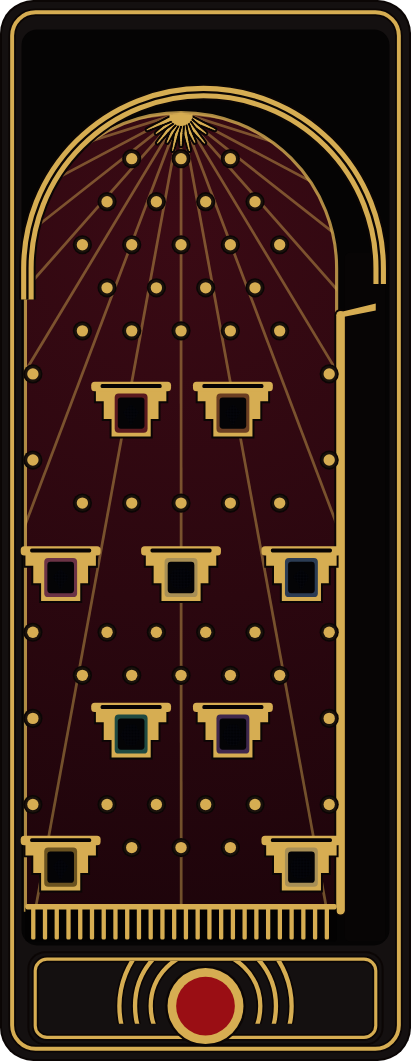
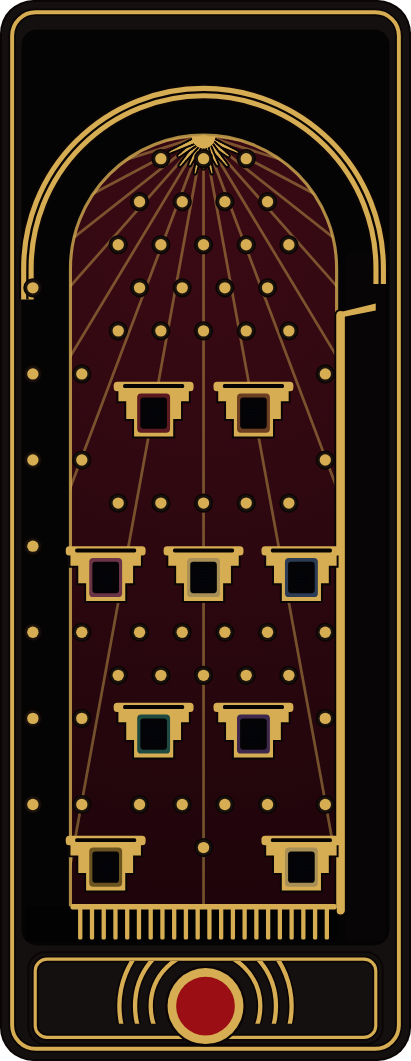
Алчность v2: пачинко — купол поля концентричен дуге, поле, лунки и гвозди по её оси
Claude-Session: https://claude.ai/code/session_014b7WGtUGzHT9duRP7NWniS

diff --git a/src/minigames/greed/greed-junk-pachinko.js b/src/minigames/greed/greed-junk-pachinko.js
@@ -166,38 +166,55 @@ Object.assign(GreedJunk, {
         return pts;
     },
 
-    // Гвозди версии 2 (аппарат-люкс, greed-lux*.js): та же шахматка с тем
-    // же шагом и теми же просветами, но ровная и зеркальная относительно
-    // середины поля (между левой стенкой и перегородкой — там же середина
-    // лунок). Игрок (18.11): «внутренности съехали, не отцентровано» — у
-    // гаражных гвоздей середина ~250,4, у лунок 253,75, у арки 259,5, плюс
-    // разброс «на глаз»: в ар-деко это читается как брак. Под куполом поля
-    // (machine.py: купол — полукруг над полем, середина та же) гвоздь
-    // ставится, только если стоит и его зеркальная пара. Исход шарика решён
-    // заранее (запас запусков пересчитывается под эту раскладку,
-    // pachPoolId), так что игра от раскладки не меняется.
-    // Включает GreedLux.mount (PACH_TIDY), снимает unmount.
+    // Поле версии 2 (аппарат-люкс, greed-lux*.js): ровное и зеркальное
+    // относительно середины ДУГИ (259,5). Игрок, 18.11: сначала «внутренности
+    // съехали» (у гаражного три середины: дуга 259,5, лунки 253,75, гвозди
+    // ~250,4 с разбросом «на глаз»), потом — когда купол поля встал по
+    // середине лунок — «внутренняя арка и внешняя не совпадают». Дуга
+    // физическая и стоит над полем вместе с дорожкой, сдвинуть её нельзя —
+    // значит, под неё встаёт всё остальное: купол поля — той же середины
+    // (machine.py), его правый край — перегородка (259,5 + 34 = 293,5), левый
+    // — 225,5; слева от него до стенки — тёмный жёлоб, зеркало дорожки
+    // (шарик с дуги спускается по нему и гвоздями у стенки отбивается в
+    // поле). Лунки и гвозди — по той же середине. Исход шарика решён заранее
+    // (запас запусков пересчитывается под эту раскладку, pachPoolId), так что
+    // играется так же. Включает GreedLux.mount (pachTidy), снимает unmount.
+    PACH_CUPS_LUX: [
+        { key: 'wrath', x: 246.75, y: 62 }, { key: 'glut', x: 272.25, y: 62 },
+        { key: 'lust', x: 234.5, y: 104 }, { key: 'gold1', x: 259.5, y: 104 }, { key: 'sloth', x: 284.5, y: 104 },
+        { key: 'envy', x: 246.75, y: 144 }, { key: 'pride', x: 272.25, y: 144 },
+        { key: 'greed', x: 234.5, y: 178 }, { key: 'gold1', x: 284.5, y: 178 }
+    ],
     pachTidy(on) {
         if (!!this.PACH_TIDY === !!on) return;
+        if (!this.PACH_CUPS_JUNK) this.PACH_CUPS_JUNK = this.PACH_CUPS;
         this.PACH_TIDY = !!on; this._pachWorld = null;
+        this.PACH_CUPS = on ? this.PACH_CUPS_LUX : this.PACH_CUPS_JUNK;
     },
+    // Гвозди версии 2: шахматка с шагом 10,9 (поле уже гаражного: 68 против
+    // 79,5) от середины дуги. Справа граница — просвет до перегородки, слева
+    // — её зеркало; в нечётных рядах крайние — вплотную к перегородке и
+    // зеркально ей, в жёлобе — пристенные (как у гаражного: без них шарик
+    // стекал по стенке). Под куполом — только внутри него.
     pachNailsTidy() {
-        const P = this.PACH, A = P.arc, C = P.cup, pts = [];
+        const P = this.PACH, A = P.arc, C = P.cup, pts = [], fc = A.cx, step = 10.9, rd = P.sep - fc;
         const gap = 2 * 2.5 + 1.7 + 0.9;
-        const wl = P.x0 + P.wall + 1.9, fc = (P.x0 + P.wall + P.sep) / 2, wr = 2 * fc - wl;
-        const left = wl + 1.7 + gap, right = 2 * fc - left, rd = (P.sep - P.x0 - P.wall) / 2;
-        const free = (x, y) => (y >= A.cy || (Math.hypot(x - A.cx, y - A.cy) <= A.r - 1.2 - gap && Math.hypot(x - fc, y - A.cy) <= rd - 3.2)) &&
+        const wl = P.x0 + P.wall + 1.9, wr = P.sep - 1 - 1.9, right = wr - 1.7 - gap, left = 2 * fc - right;
+        const free = (x, y) => (y >= A.cy || Math.hypot(x - fc, y - A.cy) <= rd - 3.2) &&
             !this.PACH_CUPS.some(c => x > c.x - C.w / 2 - gap && x < c.x + C.w / 2 + gap && y > c.y - gap && y < c.y + C.h + gap);
+        const wallFree = (x, y) => !this.PACH_CUPS.some(c => x > c.x - C.w / 2 - gap && x < c.x + C.w / 2 + gap && y > c.y - gap && y < c.y + C.h + gap);
         for (let row = 0, y = 4; y < P.drain - 6; row++, y += 11) {
-            const odd = row % 2;
+            const odd = row % 2, xs = [];
             for (let k = -6; k <= 6; k++) {
-                const x = fc + (odd ? 6.3 : 0) + k * 12.6;
-                if (x < left - 0.01 || x > right + 0.01) continue;
-                if (free(x, y) && free(2 * fc - x, y)) pts.push([x, y]);
+                const x = fc + (odd ? step / 2 : 0) + k * step;
+                if (x >= left - 0.05 && x <= right + 0.05) xs.push(x);
             }
-            // у стенок — парой, в рядах, где шахматка отступает от стен
-            // (под торцом перегородки — нет: шарик балансировал на шляпке)
-            if (odd && y >= A.cy + 22 && y < P.drain - 8 && free(wl, y) && free(wr, y)) pts.push([wl, y], [wr, y]);
+            // крайние нечётного ряда: у перегородки и зеркально (под торцом
+            // перегородки — нет: шарик балансировал на шляпке)
+            if (odd && y >= A.cy + 22) xs.push(wr, 2 * fc - wr);
+            xs.forEach(x => { if (free(x, y) && free(2 * fc - x, y)) pts.push([x, y]); });
+            // жёлоб: пристенный в каждом нечётном ряду ниже дуги
+            if (odd && y >= A.cy + 4 && y < P.drain - 8 && wallFree(wl, y)) pts.push([wl, y]);
         }
         return pts;
     },

diff --git a/tools/greed-lux-sketch/machine.py b/tools/greed-lux-sketch/machine.py
@@ -531,14 +531,15 @@ def pach_live():
     o = ink_rr(P['x0'], P['y0'], P['x1'], P['y1'], 8, LAC) + grect(P['x0'] + 2.6, P['y0'] + 2.6, P['x1'] - 2.6, P['y1'] - 2.6, 6, 1.0)
     # колодец поля: всё под дымчатым стеклом (материал стекла — отражения студии)
     o += rr(fx0 - 1, fy0 - 1, fx1 + 1, fy1 + 1, 4, c('#050404', 'glass', '#000'))
-    # Поле — между левой стенкой и перегородкой, сверху купол-полукруг той
-    # же середины (fc). Игрок, 18.11: «внутренности съехали» — поле было
-    # куполом дуги (её середина 259,5 — над полем вместе с дорожкой), а
-    # лунки и гвозди стоят по середине поля 253,75. Дуга-пруток физическая и
-    # остаётся где была: между ней и куполом — тёмный жёлоб, он справа
-    # переходит в дорожку (как у настоящих пачинко).
-    fc, rd = (fx0 + sep) / 2, (sep - fx0) / 2
-    inner = f'M{fx0} {drain} L{fx0} {cy} A{rd} {rd} 0 0 1 {sep} {cy} L{sep} {drain} Z'
+    # Поле — купол той же середины, что дуга-пруток (концентрично, жёлоб
+    # между ними одной ширины), правый край — перегородка, левый — её
+    # зеркало; слева до стенки — тёмный жёлоб, зеркало дорожки. Игрок, 18.11:
+    # купол по середине лунок (253,75) не совпадал с дугой (259,5) — «косяк»;
+    # дуга физическая, поэтому под неё встали поле, лунки и гвозди
+    # (GreedJunk.pachTidy).
+    fc, rd = cx, sep - cx
+    fl = fc - rd
+    inner = f'M{fl} {drain} L{fl} {cy} A{rd} {rd} 0 0 1 {sep} {cy} L{sep} {drain} Z'
     field = {'A': '#0d0a09', 'B': '#3a0a14', 'C': '#0a0909'}[PVF]
     edge = {'A': '#050403', 'B': '#1c040a', 'C': '#040303'}[PVF]
     glow = {'A': '#2a1a08', 'B': '#3a0c10', 'C': '#1e1408'}[PVF]
@@ -589,9 +590,11 @@ def pach_live():
     o += f'<path d="M{vx0} {vy + 1.6} L{vx1} {vy - 0.6} L{vx1} {vy + 1.2} L{vx0} {vy + 3} Z" fill="{c(GOLD, "gold")}"/>'
     # сток — золотая решётка ар-деко над тёмной щелью
     o += rr(fx0, drain - 1, sep, fy1, 0.6, c('#030202', 'matte'))
-    for x in range(int(fx0) + 2, int(sep) - 1, 3):
+    gx0 = fc - rd
+    for k in range(int(2 * rd // 3)):
+        x = fc + (k - (int(2 * rd // 3) - 1) / 2) * 3
         o += rr(x - 0.55, drain - 0.8, x + 0.55, fy1 - 0.5, 0.4, c(GOLD, 'gold'))
-    o += rr(fx0, drain - 1.6, sep, drain - 0.2, 0.5, c(GOLD, 'gold'))
+    o += rr(gx0, drain - 1.6, sep, drain - 0.2, 0.5, c(GOLD, 'gold'))
     # гвозди — золотые штыри в чёрном пояске
     for x, y in PG['nails']:
         o += f'<circle cx="{x:.2f}" cy="{y:.2f}" r="2.45" fill="{c(INK)}"/><circle cx="{x:.2f}" cy="{y:.2f}" r="2.05" fill="{c("#1a120c", "lac")}"/><circle cx="{x:.2f}" cy="{y:.2f}" r="1.45" fill="{c(GOLD, "gold")}"/>'
@@ -666,9 +669,11 @@ def pach_build_live():
     add(rail, 2.4, 1.6 * s_, 'circ')
     add(seg(P['sep'] + 1, cy + 12, P['drain'], 1.1), 2.2, 1.1 * s_, 'circ')
     add(rrect(fx0, P['drain'] - 1, P['sep'], fy1, 0.6), -6, 0.8)
-    for x in range(int(fx0) + 2, int(P['sep']) - 1, 3):
+    rd = P['sep'] - cx
+    for k in range(int(2 * rd // 3)):
+        x = cx + (k - (int(2 * rd // 3) - 1) / 2) * 3
         add(rrect(x - 0.55, P['drain'] - 0.8, x + 0.55, fy1 - 0.5, 0.4), 6.5, 0.4, 'circ')
-    add(rrect(fx0, P['drain'] - 1.6, P['sep'], P['drain'] - 0.2, 0.5), 1.2, 0.5)
+    add(rrect(cx - rd, P['drain'] - 1.6, P['sep'], P['drain'] - 0.2, 0.5), 1.2, 0.5)
     for x, y in PG['nails']:
         dn = np.hypot(BX - x, BY - y) * s_
         add(dn - 2.05 * s_, 0.9, 0.7)

diff --git a/docs/plan/31-greed-premium.md b/docs/plan/31-greed-premium.md
@@ -915,3 +915,10 @@
   (`GreedJunk.pachNailsTidy`, включает `GreedLux.mount`; гаражный — прежние).
   Физическая дуга не тронута: между ней и куполом — жёлоб, справа он
   переходит в дорожку. Запас запусков — под новую раскладку (`pachPoolId`).
+* 18.11 — «внутренняя красная арка и внешняя не совпадают». Купол поля по
+  середине лунок (253,75) и физическая дуга (259,5) были не концентричны.
+  Дугу не сдвинуть (по ней летит шарик, справа под ней дорожка), поэтому
+  под неё встало всё поле версии 2: купол той же середины (радиус 34 —
+  правый край ровно перегородка), поле 225,5…293,5, слева до стенки —
+  тёмный жёлоб, зеркало дорожки. Лунки (`PACH_CUPS_LUX`) и гвозди (шаг 10,9)
+  — по той же оси; `pachTidy` подменяет лунки и гвозди только у версии 2.
